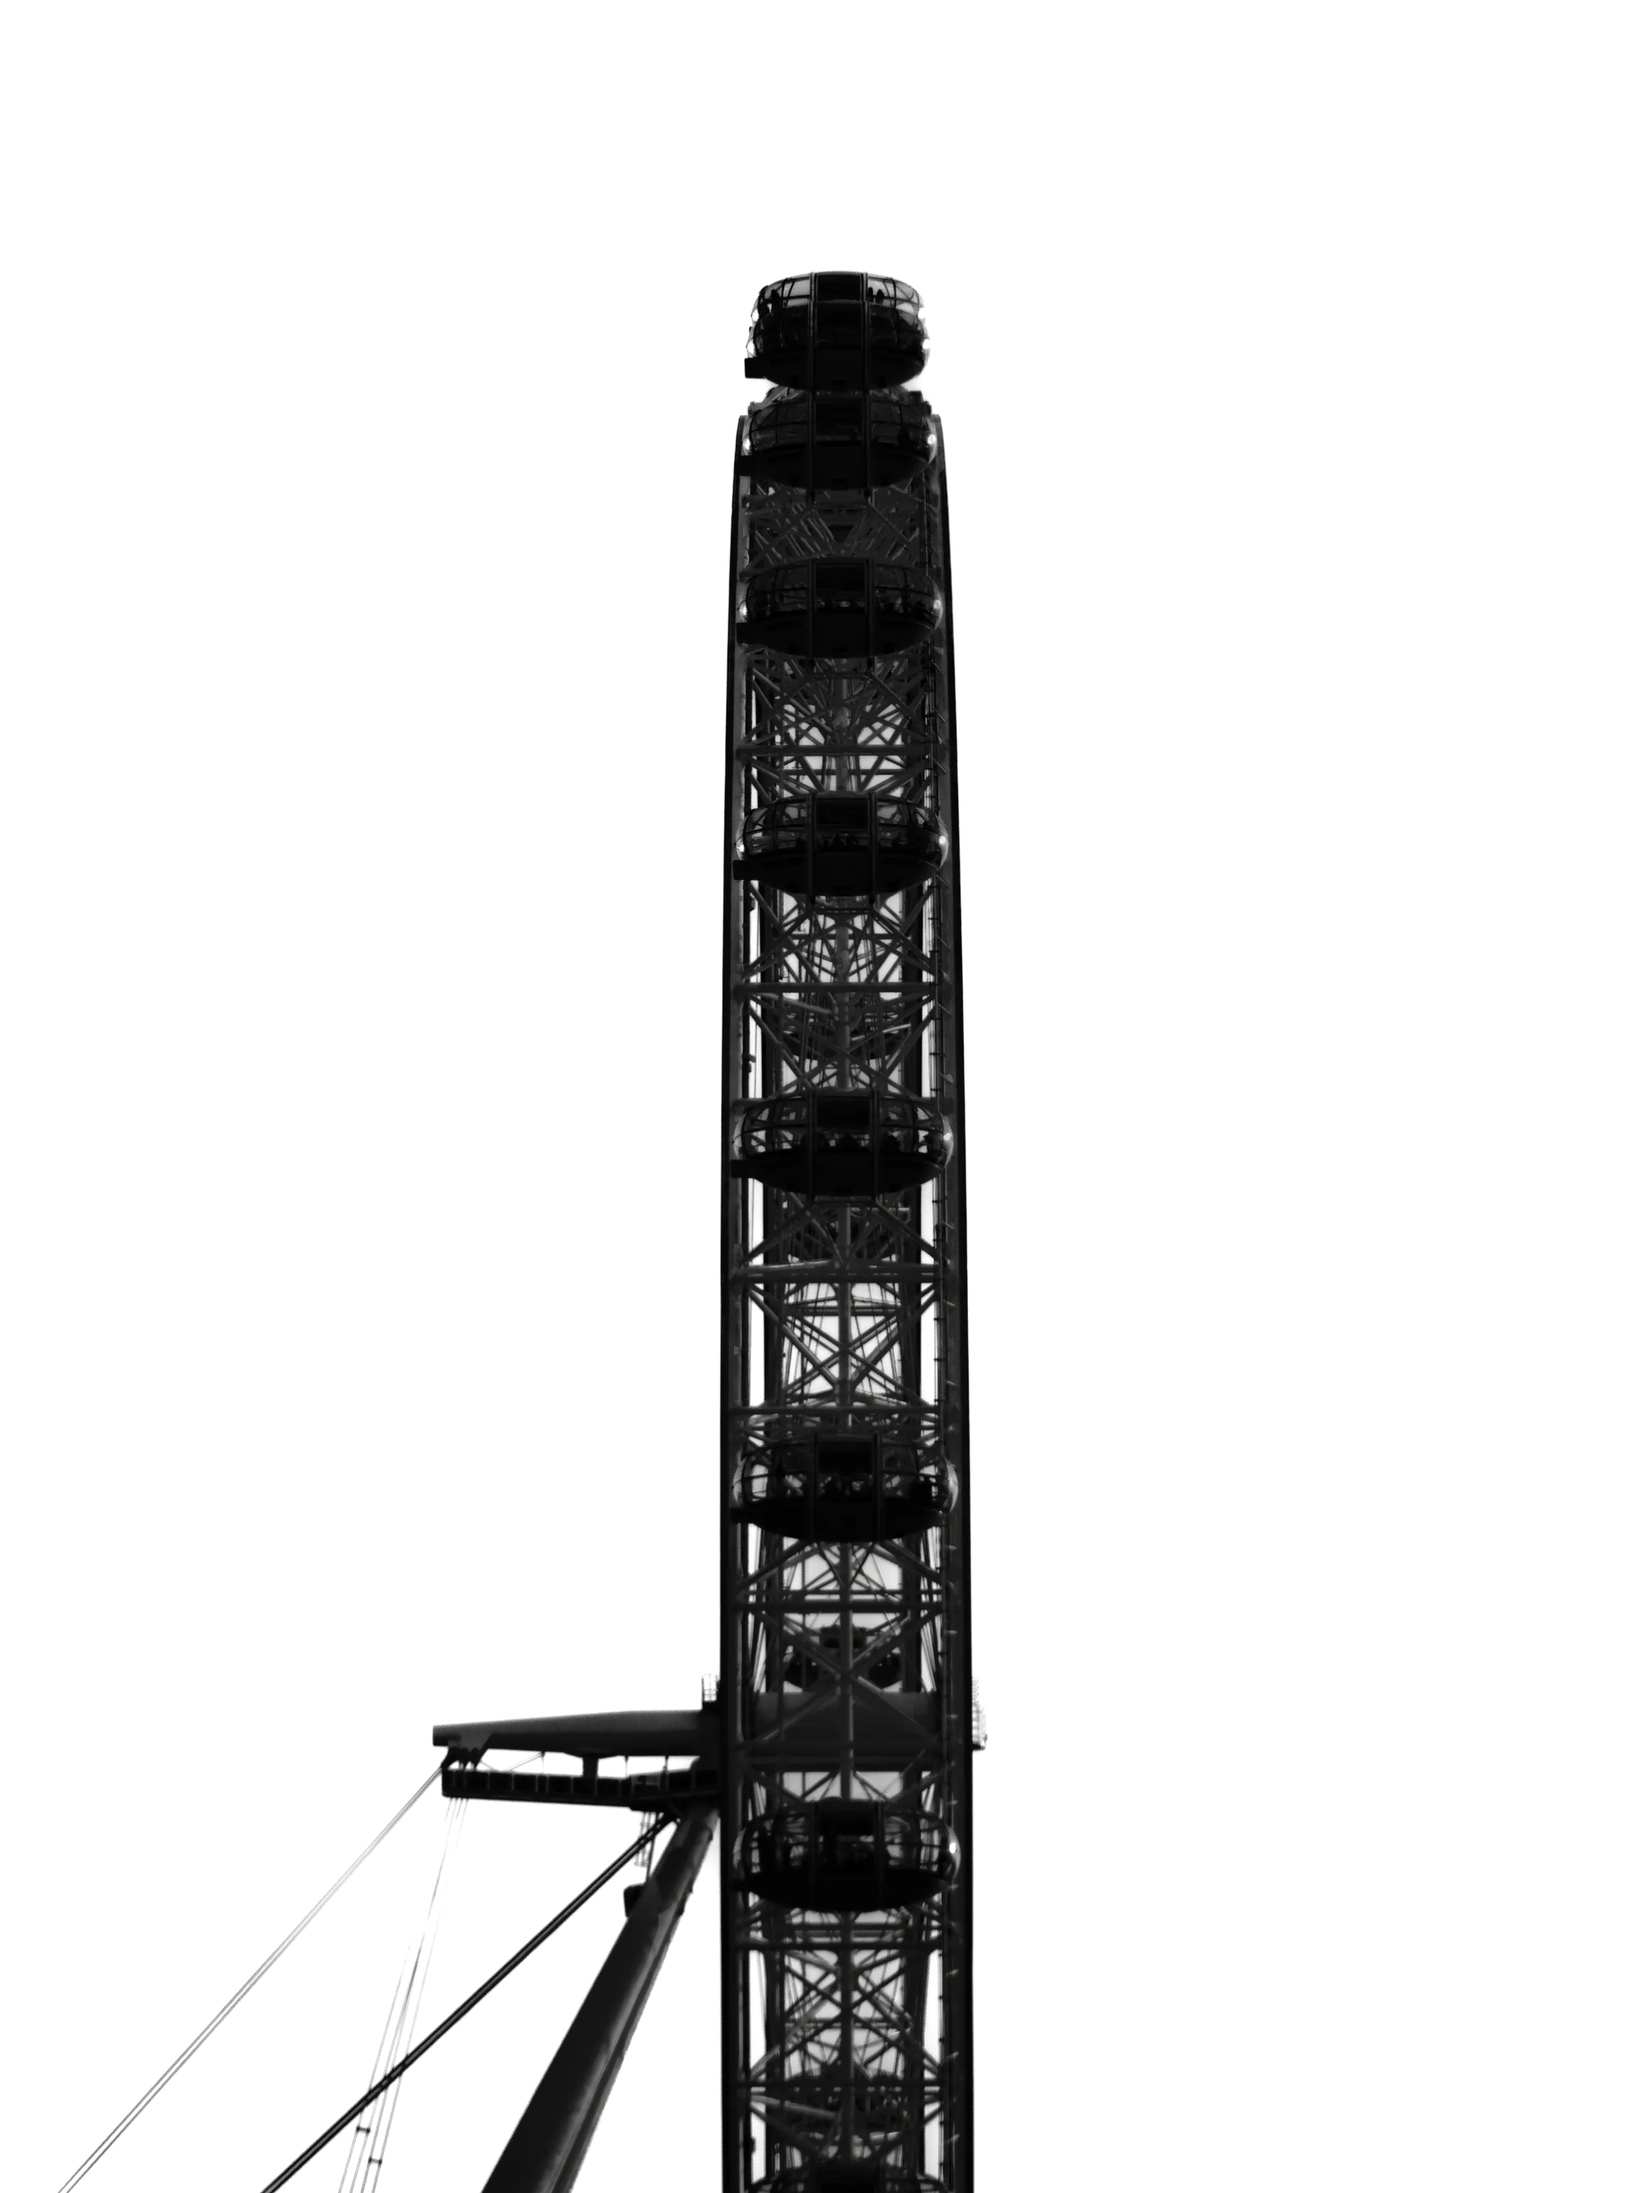
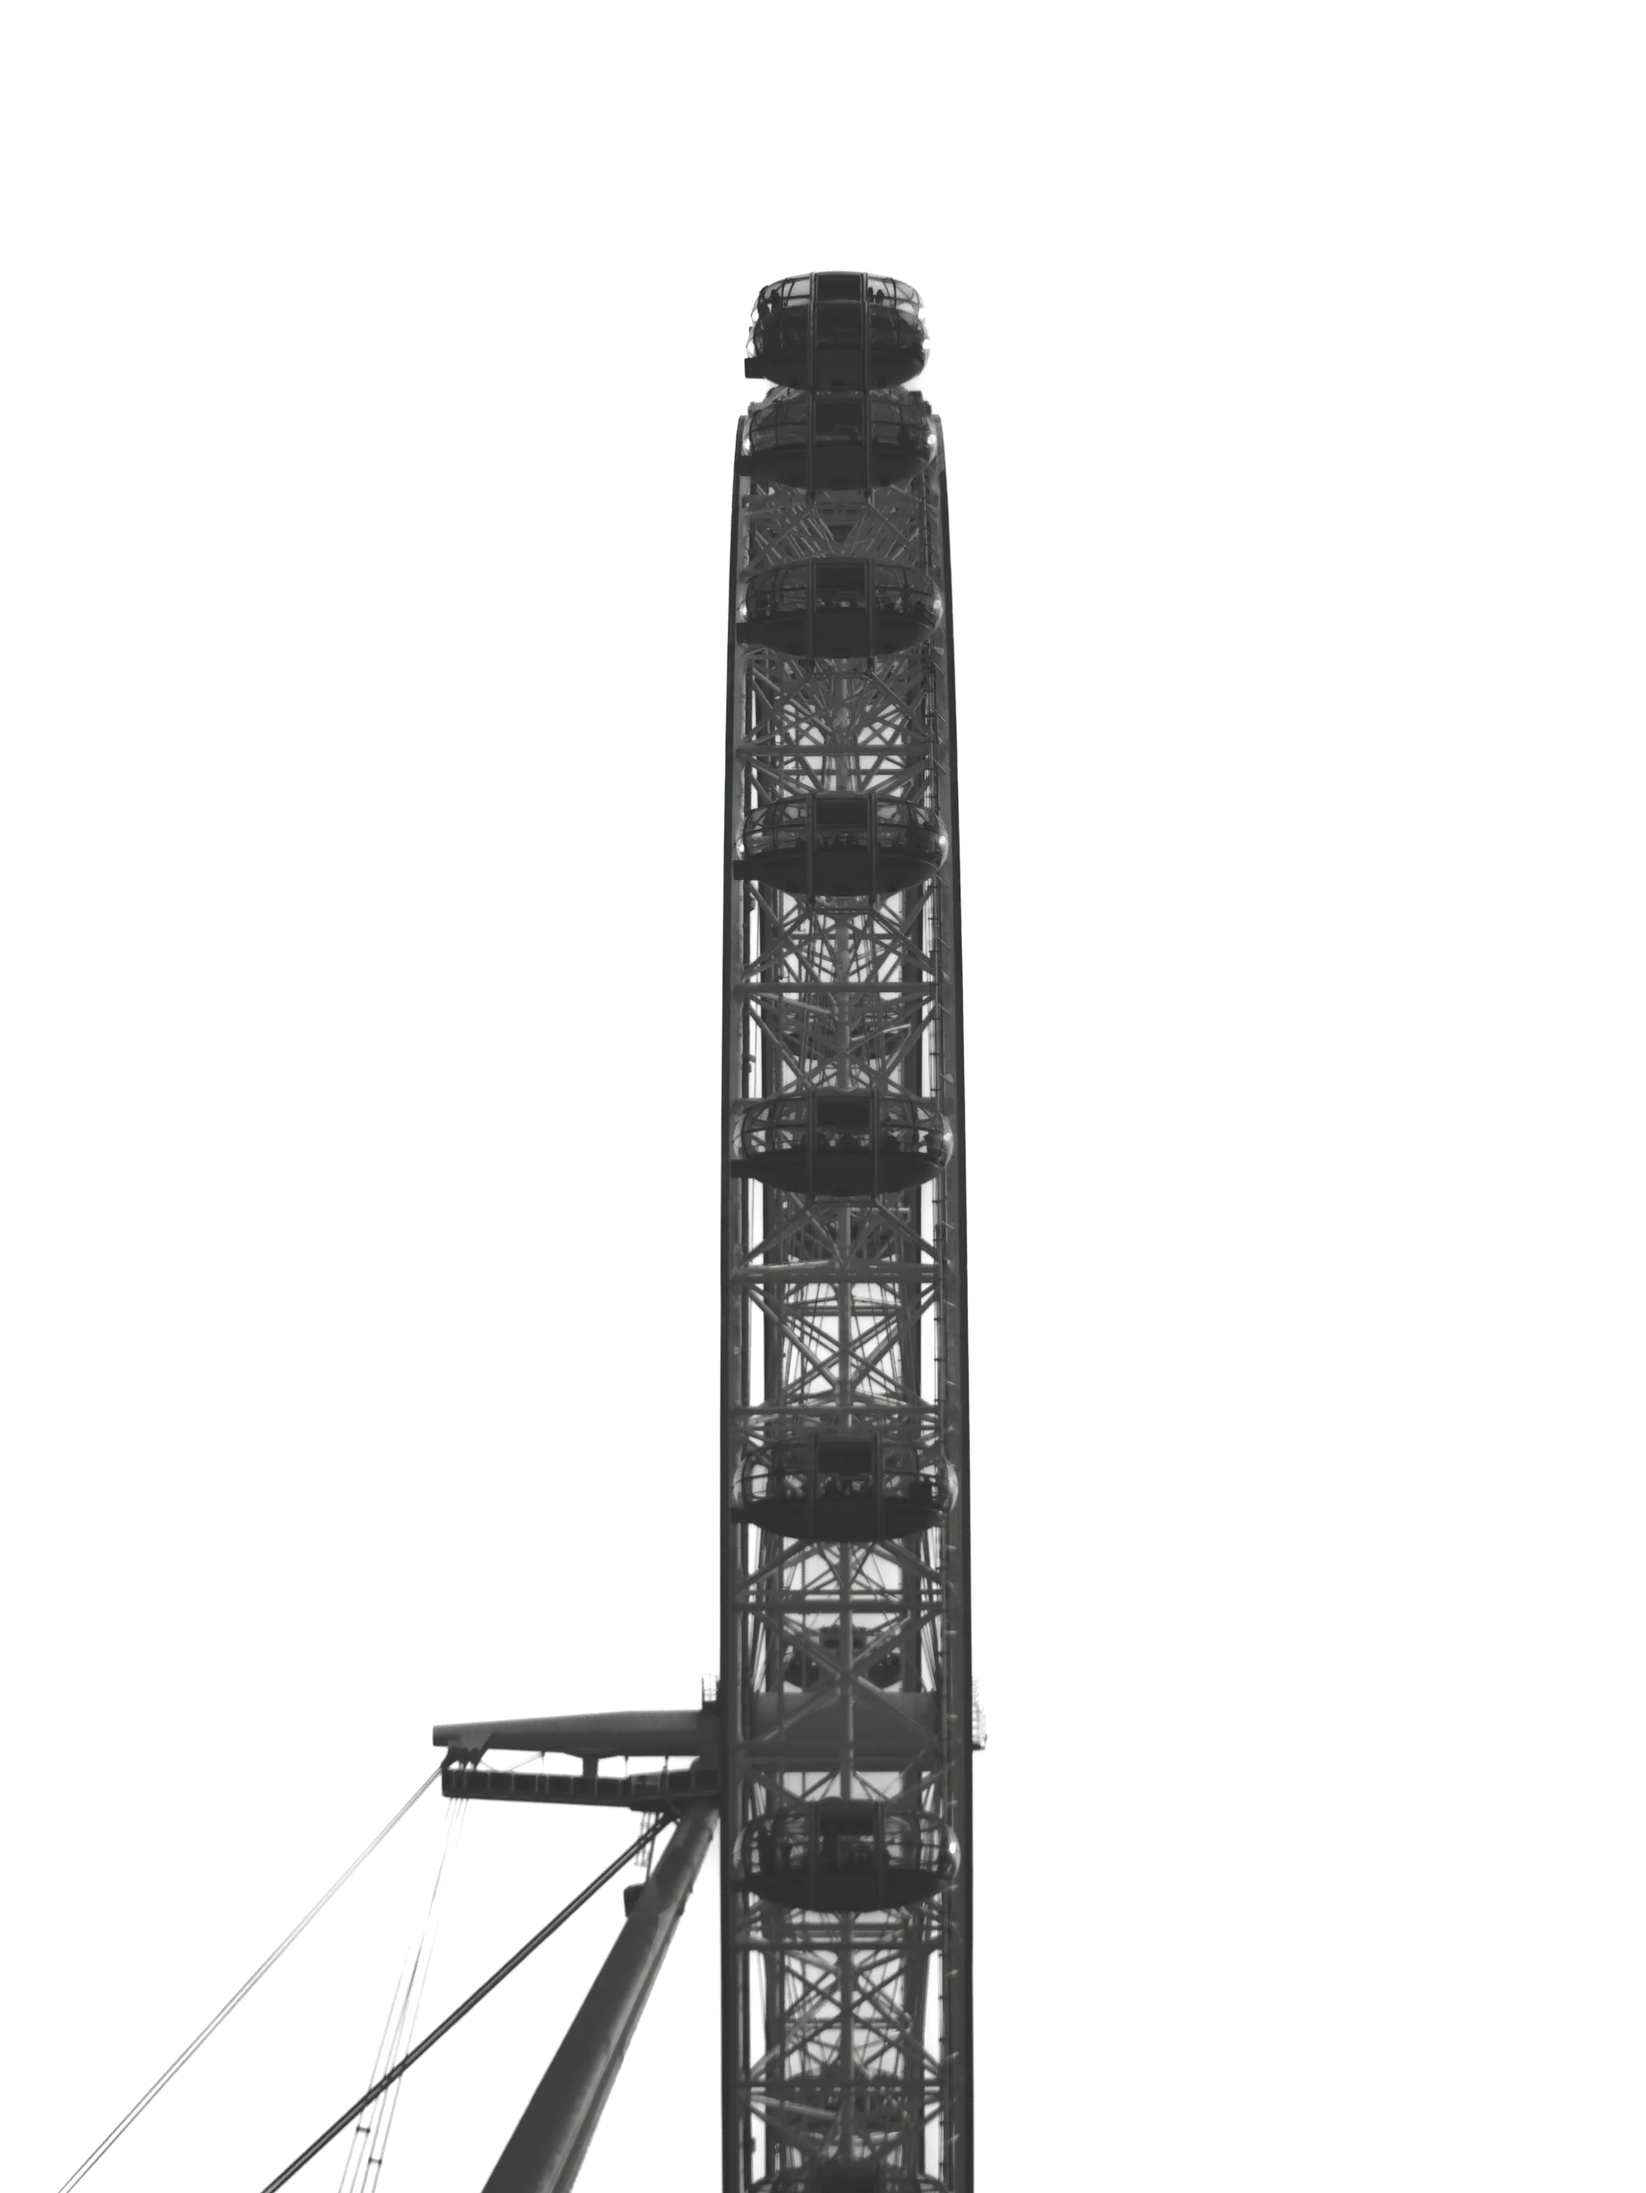
Lift all three pictures off the black page
On #000 at 0.17, SHADOW=0x00 composites to code 0 — the page's own value. The
dark end of every picture was not dim, it was deleted, and what survived ran from
code 0 to code 16. That is the band an OLED's own black handling and a laptop at
half brightness are worst at, which is why this read as a display problem on a
MacBook and an OLED phone while a calibrated desktop resolved all sixteen codes.

So all three darks are spelled out and move the same two endpoints:

    SHADOW    0x00 -> 0x2c    composite  0.0 -> 7.5    dL* 0.00 -> 2.05
    HIGHLIGHT 0x5c -> 0x8a    composite 15.6 -> 23.5   dL* 4.55 -> 7.97

HIGHLIGHT moves because SHADOW does: lifting the floor under a fixed ceiling
would have bought the dark end by flattening everything between them. Measured
off the built files, the darkest percentile of each picture now lands at code
7.7-8.2 instead of 0, and the type it stays under is dL* 92.7, so this is still
an order of magnitude quieter than the words.

The light grades are untouched, and all three light ladders rebuilt
byte-identical — on white it is HIGHLIGHT that is lost into the page and SHADOW
that is the most visible thing in the picture. The two papers fail at opposite
ends, which is the argument for a Grade per theme, reached from the arithmetic
rather than by eye.

Every picture now has a dark ladder on disk, so the fallback in index.html no
longer fires for any of them. IMG_VERSION follows the files, per #27.

diff --git a/portfolio/index.html b/portfolio/index.html
@@ -69,7 +69,7 @@
          URL — see rungUrl below for what it is for. design/plate/build-plate.py
          prints the current value at the end of every run; paste it here whenever
          it differs from this one, in the same commit as the re-baked files. */
-      var IMG_VERSION = "3785c80b";
+      var IMG_VERSION = "ca503281";
 
       /* One entry per picture, and `fill` is the only thing that separates them:
          the width it is drawn at as a share of the first screen. All three are

diff --git a/design/plate/build-plate.py b/design/plate/build-plate.py
@@ -226,6 +226,8 @@ not a perceptual unit:
     light, 0.12 on #fff    picture spans dL* 3.88, sits dL* 10.7..6.8 off the paper
     dark,  0.17 on #000    picture spans dL* 4.55, sits dL* 0..4.6 off the paper
 
+THE ARITHMETIC OF THE DARK PAPER
+--------------------------------
 Two things fall out of that table, and both are about the second row. The dark
 picture's SHADOW end is not near the page, it IS the page — 0x00 * 0.17 = 0, the
 same code as the paper — so a fifth or so of the frame is not being dimmed, it is
@@ -235,6 +237,25 @@ per-pixel dimming, and any black crush on top of it, do their worst. It is also
 where a laptop at half brightness in a bright room has nothing left to give. A
 calibrated desktop display in a dim room will resolve all sixteen of those codes,
 which is why this reads as a display problem and is really a headroom problem.
+
+DARK_SHADOW and DARK_HIGHLIGHT are the answer to that paragraph, and the second is
+there because of the first. Lifting SHADOW alone would have raised the floor by
+narrowing the picture — the ceiling was not moving — so the dark end would arrive
+at the cost of everything between the two. Both move:
+
+    SHADOW    0x00 -> 0x2c    composite  0.0 -> 7.5    dL* 0.00 -> 2.05
+    HIGHLIGHT 0x5c -> 0x8a    composite 15.6 -> 23.5   dL* 4.55 -> 7.97
+
+which takes the picture off the paper at both ends and widens what it spans from
+dL* 4.55 to 5.92. The type it must stay under is #eaeaea on #000, dL* 92.7, so
+this is still an order of magnitude quieter than the words and the reason to stop
+here is not the type — there is room — it is that a floor much above this stops
+reading as ink on black paper and starts reading as a grey card laid on it.
+
+Note what this does NOT change: the light grades. On white the picture's SHADOW
+end is its most visible part (dL* 10.7 off the paper) and it is HIGHLIGHT that is
+being lost into the page. The two papers fail at opposite ends, which is the whole
+argument for a Grade per theme, arrived at from the arithmetic rather than by eye.
 
 The three levers, in the order of how much they actually move:
 
@@ -334,18 +355,38 @@ PLATE_LIGHT = Grade(
     GRAIN_SIGMA=0.0075,
 )
 
-# A picture's dark opens as its OWN light, which is deliberately the least
-# interesting thing it could be: identical means main() writes no dark ladder for
-# it at all, the page falls back to its light file, and the picture on black is
-# exactly what it is today. Nothing changes until somebody moves a number — and
-# the way to move one is in the tuner, on the dark preview, where the question "is
-# this too loud on black" is actually visible.
+# A picture's dark opened as its OWN light for as long as the question on black was
+# "is this too loud", which is the question the light grade is already an answer to.
+# It is the wrong question. On black the picture is not too loud, it is not there:
+# see THE ARITHMETIC OF THE DARK PAPER in the docstring for the measurement, but
+# the short of it is that SHADOW=0x00 composites onto a #000 page at exactly the
+# page's own value, so the dark end of every one of these pictures is not dim, it
+# is deleted.
 #
-# The tuner prints this as a Grade(...) of its own rather than as a second name for
-# light's, so pasting its answer is what ends the aliasing. Until then a hand edit
-# to PLATE_LIGHT does move both, which is the right default for two grades that are
-# meant to be the same picture on two papers. It does NOT reach the car.
-PLATE_DARK = PLATE_LIGHT
+# So all three darks are spelled out below, and all three move the same two
+# endpoints in the same direction: SHADOW up off the paper, HIGHLIGHT up with it so
+# that lifting the floor flattens nothing. They are still one paper stock — the
+# pipeline above is shared stage for stage, and this is the endpoints only.
+DARK_SHADOW = (0x2c, 0x2c, 0x2c)     # composites to code 7.5 on black at 0.17
+DARK_HIGHLIGHT = (0x8a, 0x8a, 0x8a)  # ...and to code 23.5, so the band is 16 wide
+# One pair, named once and used by all three, which is the thing the comment at the
+# head of this section says not to do — and the exception is narrow and worth
+# stating. What must not be shared is a PICTURE's grade, because the frames are
+# different photographs and their endpoints answer to the frame. What is shared
+# here is a property of the PAPER: 0x00 lands on #000 for the plate exactly as it
+# does for the eye, and the floor that clears it is arithmetic rather than taste.
+# Anything a frame wants of its own goes in its own Grade below, which is why these
+# are two names and not a fourth Grade.
+PLATE_DARK = Grade(
+    EXPOSURE_PCT=99.0,
+    EXPOSURE_TARGET=0.34,
+    SAT_KEEP=0.24,
+    CONTRAST=0.36,
+    HIGHLIGHT_PUSH=1.34,
+    SHADOW=DARK_SHADOW,
+    HIGHLIGHT=DARK_HIGHLIGHT,
+    GRAIN_SIGMA=0.0075,
+)
 
 CAR_LIGHT = Grade(
     EXPOSURE_PCT=99.0,
@@ -358,7 +399,16 @@ CAR_LIGHT = Grade(
     GRAIN_SIGMA=0.0075,
 )
 
-CAR_DARK = CAR_LIGHT
+CAR_DARK = Grade(
+    EXPOSURE_PCT=99.0,
+    EXPOSURE_TARGET=0.34,
+    SAT_KEEP=0.24,
+    CONTRAST=0.36,
+    HIGHLIGHT_PUSH=1.34,
+    SHADOW=DARK_SHADOW,
+    HIGHLIGHT=DARK_HIGHLIGHT,
+    GRAIN_SIGMA=0.0075,
+)
 
 EYE_LIGHT = Grade(
     EXPOSURE_PCT=99.0,
@@ -371,23 +421,17 @@ EYE_LIGHT = Grade(
     GRAIN_SIGMA=0.0075,
 )
 
-# The first of the six to be spelled out rather than aliased, so the eye is the
-# first picture with a dark ladder of its own on disk. What ended the aliasing is
-# LIGHT moving, not dark: dark holds the numbers both themes shared, and the two
-# lines below are what every one of these blocks looked like this morning.
-#
-# Which is worth reading twice before treating it as a dark-theme answer, because
-# it is not one. It is what "tune light, leave dark where it was" spells, and on
-# this picture dark is the harder of the two papers — see WHY THESE ENDPOINTS and
-# the note under it.
+# The eye was the first of the six to be spelled out, and for a reason that was not
+# a dark-theme judgement at all: light moved and dark stayed, so this block held the
+# numbers both themes had shared. It now holds the same pair as the other two.
 EYE_DARK = Grade(
     EXPOSURE_PCT=99.0,
     EXPOSURE_TARGET=0.34,
     SAT_KEEP=0.24,
     CONTRAST=0.36,
     HIGHLIGHT_PUSH=1.34,
-    SHADOW=(0x00, 0x00, 0x00),      # pure black
-    HIGHLIGHT=(0x5c, 0x5c, 0x5c),   # mid grey
+    SHADOW=DARK_SHADOW,
+    HIGHLIGHT=DARK_HIGHLIGHT,
     GRAIN_SIGMA=0.0075,
 )
 
